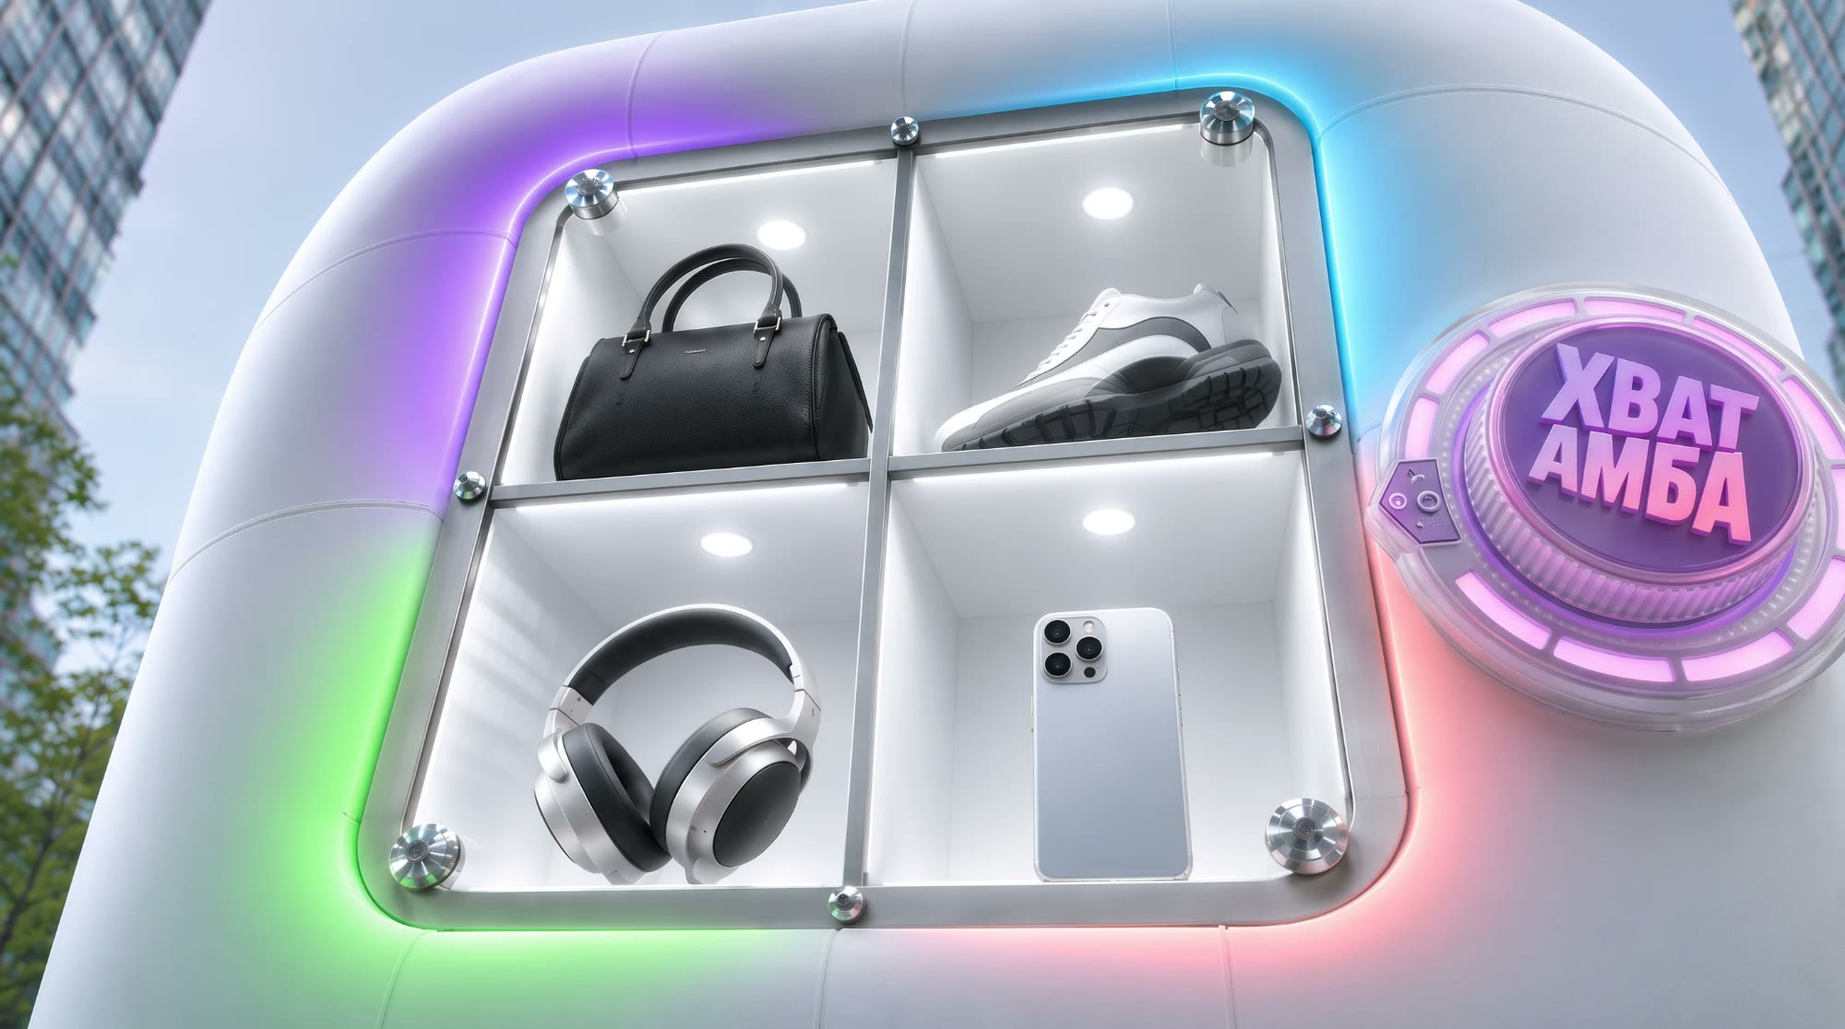
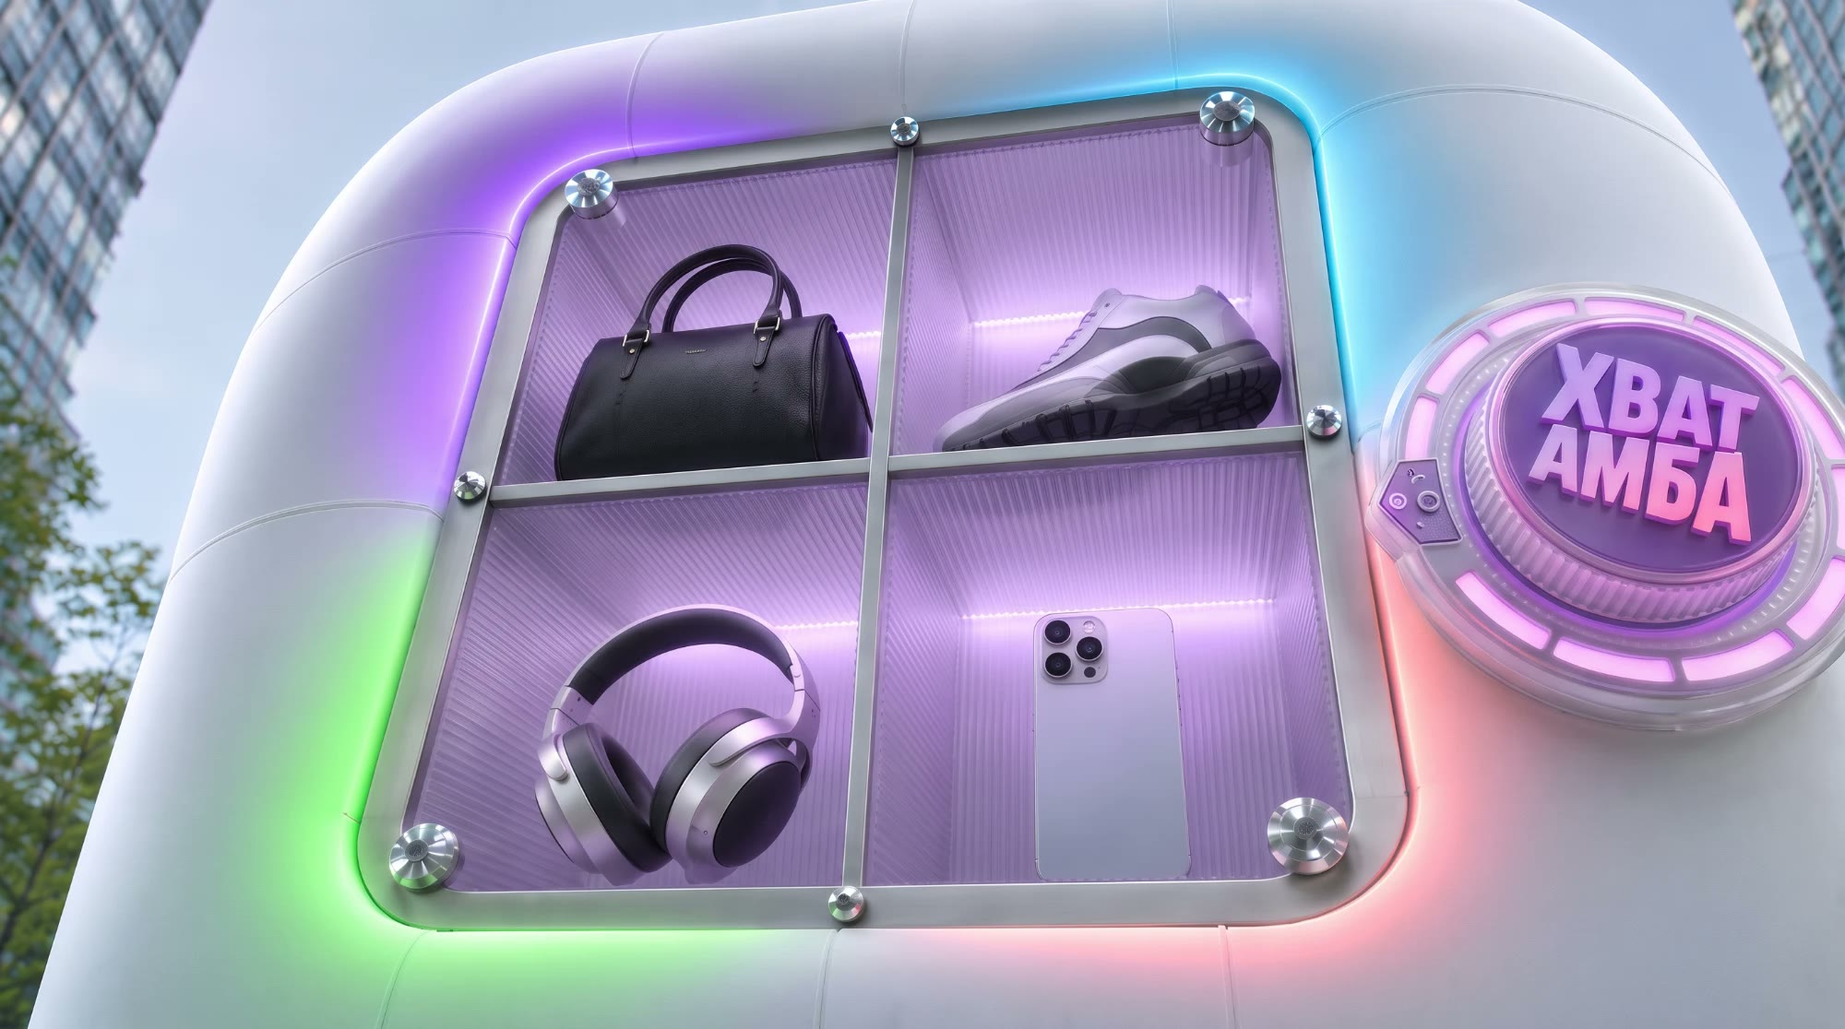
deck/avito: replace ref5

Changed region(s): [[0.217, 0.0914, 0.775, 0.8835]]

diff --git a/deck/avito/index.html b/deck/avito/index.html
@@ -119,9 +119,9 @@ footer{margin-top:auto;border-top:1px solid var(--line);padding-top:18px;display
   </dl>
   <div class="copy"><p>Мысли героя о подарках вылетают из головы настоящими вещами. Поворот диммера Хватамбы открывает двери на улицу, где каждая мысль стоит в авитжете со скидкой.</p></div>
 </section>
-<section class="grid" id="refs"><div class="label">Стиль</div><div class="frames free"><figure><a href="./media/ref1.jpg?v=7" target="_blank" rel="noopener"><img src="./media/ref1.jpg?v=7" alt="Голова открывается крышкой, подарки вылетают с паром" loading="lazy"></a><figcaption><b></b><span>Голова открывается крышкой, подарки вылетают с паром</span></figcaption></figure><figure><a href="./media/ref2.jpg?v=7" target="_blank" rel="noopener"><img src="./media/ref2.jpg?v=7" alt="Девушка прижата желаниями к стеклу" loading="lazy"></a><figcaption><b></b><span>Девушка прижата желаниями к стеклу</span></figcaption></figure><figure><a href="./media/ref3.jpg?v=7" target="_blank" rel="noopener"><img src="./media/ref3.jpg?v=7" alt="Макро глаза с диммером" loading="lazy"></a><figcaption><b></b><span>Макро глаза с диммером</span></figcaption></figure><figure><a href="./media/ref4.jpg?v=7" target="_blank" rel="noopener"><img src="./media/ref4.jpg?v=7" alt="POV: диммер над площадью" loading="lazy"></a><figcaption><b></b><span>POV: диммер над площадью</span></figcaption></figure><figure><a href="./media/ref5.jpg?v=7" target="_blank" rel="noopener"><img src="./media/ref5.jpg?v=7" alt="Авитжет с диммером Хватамбы" loading="lazy"></a><figcaption><b></b><span>Авитжет с диммером Хватамбы</span></figcaption></figure><figure><a href="./media/ref6.jpg?v=7" target="_blank" rel="noopener"><img src="./media/ref6.jpg?v=7" alt="Герой забирает кофемашину из авитжета" loading="lazy"></a><figcaption><b></b><span>Герой забирает кофемашину из авитжета</span></figcaption></figure></div></section>
-<section class="grid" id="sb"><div class="label">Раскадровка</div><div class="frames"><figure><a href="./media/sb01.jpg?v=7" target="_blank" rel="noopener"><img src="./media/sb01.jpg?v=7" alt="Герой в автобусе мечтательно смотрит вверх. Голова открывается крышкой, с паром вылетают подарки." loading="lazy"></a><figcaption><b>01</b><span>Герой в автобусе мечтательно смотрит вверх. Голова открывается крышкой, с паром вылетают подарки.</span></figcaption></figure><figure><a href="./media/sb02.jpg?v=7" target="_blank" rel="noopener"><img src="./media/sb02.jpg?v=7" alt="Девушка прижалась к запотевшему стеклу. Её желания над открытой головой тоже упираются в стекло." loading="lazy"></a><figcaption><b>02</b><span>Девушка прижалась к запотевшему стеклу. Её желания над открытой головой тоже упираются в стекло.</span></figcaption></figure><figure><a href="./media/sb03.jpg?v=7" target="_blank" rel="noopener"><img src="./media/sb03.jpg?v=7" alt="Салон в зеркале заднего вида: у всех пассажиров открыты головы, над каждым куча своих товаров." loading="lazy"></a><figcaption><b>03</b><span>Салон в зеркале заднего вида: у всех пассажиров открыты головы, над каждым куча своих товаров.</span></figcaption></figure><figure><a href="./media/sb04.jpg?v=7" target="_blank" rel="noopener"><img src="./media/sb04.jpg?v=7" alt="Макро глаза героя: в зрачке диммер Хватамбы на двери." loading="lazy"></a><figcaption><b>04</b><span>Макро глаза героя: в зрачке диммер Хватамбы на двери.</span></figcaption></figure><figure><a href="./media/sb05.jpg?v=7" target="_blank" rel="noopener"><img src="./media/sb05.jpg?v=7" alt="Рука героя крутит диммер, товары со всего автобуса летят по проходу в диммер. Автобус тормозит." loading="lazy"></a><figcaption><b>05</b><span>Рука героя крутит диммер, товары со всего автобуса летят по проходу в диммер. Автобус тормозит.</span></figcaption></figure><figure><a href="./media/sb06.jpg?v=7" target="_blank" rel="noopener"><img src="./media/sb06.jpg?v=7" alt="Двери открываются: солнечная улица с авитжетами и селлерами, вдали авитжеты размером с дома." loading="lazy"></a><figcaption><b>06</b><span>Двери открываются: солнечная улица с авитжетами и селлерами, вдали авитжеты размером с дома.</span></figcaption></figure><figure><a href="./media/sb07.jpg?v=7" target="_blank" rel="noopener"><img src="./media/sb07.jpg?v=7" alt="Авитжет крупно: в ячейках товары из желаний героя, сбоку диммер." loading="lazy"></a><figcaption><b>07</b><span>Авитжет крупно: в ячейках товары из желаний героя, сбоку диммер.</span></figcaption></figure><figure><a href="./media/sb08.jpg?v=7" target="_blank" rel="noopener"><img src="./media/sb08.jpg?v=7" alt="Селлер начинает крутить диммер, улица закручивается, вылетают значки скидок." loading="lazy"></a><figcaption><b>08</b><span>Селлер начинает крутить диммер, улица закручивается, вылетают значки скидок.</span></figcaption></figure><figure><a href="./media/sb09.jpg?v=7" target="_blank" rel="noopener"><img src="./media/sb09.jpg?v=7" alt="Сверху: селлер проворачивает диммер дальше, и весь город вращается." loading="lazy"></a><figcaption><b>09</b><span>Сверху: селлер проворачивает диммер дальше, и весь город вращается.</span></figcaption></figure><figure><a href="./media/sb10.jpg?v=7" target="_blank" rel="noopener"><img src="./media/sb10.jpg?v=7" alt="Изнутри авитжета: герой забирает ту самую кофемашину. Над головой больше ничего не висит." loading="lazy"></a><figcaption><b>10</b><span>Изнутри авитжета: герой забирает ту самую кофемашину. Над головой больше ничего не висит.</span></figcaption></figure><figure><a href="./media/sb11.jpg?v=7" target="_blank" rel="noopener"><img src="./media/sb11.jpg?v=7" alt="Пэкшот: авитжет с кофемашиной и диммером Хватамбы, плашка Авито." loading="lazy"></a><figcaption><b>11</b><span>Пэкшот: авитжет с кофемашиной и диммером Хватамбы, плашка Авито.</span></figcaption></figure><figure class="vid"><video src="./media/boardomatic.mp4?v=7" poster="./media/sb01.jpg?v=7" controls playsinline preload="metadata"></video><figcaption><b>▶</b><span>Бордоматик, 20 секунд.</span></figcaption></figure></div></section>
-<section class="grid" id="alts"><div class="label">Альтернативы по стилю</div><div class="frames"><figure><a href="./media/alt1.jpg?v=7" target="_blank" rel="noopener"><img src="./media/alt1.jpg?v=7" alt="Предметы облепили голову" loading="lazy"></a><figcaption><b></b><span>Предметы облепили голову</span></figcaption></figure><figure><a href="./media/alt2.jpg?v=7" target="_blank" rel="noopener"><img src="./media/alt2.jpg?v=7" alt="Тот же приём, движение камеры" loading="lazy"></a><figcaption><b></b><span>Тот же приём, движение камеры</span></figcaption></figure></div></section>
+<section class="grid" id="refs"><div class="label">Стиль</div><div class="frames free"><figure><a href="./media/ref1.jpg?v=8" target="_blank" rel="noopener"><img src="./media/ref1.jpg?v=8" alt="Голова открывается крышкой, подарки вылетают с паром" loading="lazy"></a><figcaption><b></b><span>Голова открывается крышкой, подарки вылетают с паром</span></figcaption></figure><figure><a href="./media/ref2.jpg?v=8" target="_blank" rel="noopener"><img src="./media/ref2.jpg?v=8" alt="Девушка прижата желаниями к стеклу" loading="lazy"></a><figcaption><b></b><span>Девушка прижата желаниями к стеклу</span></figcaption></figure><figure><a href="./media/ref3.jpg?v=8" target="_blank" rel="noopener"><img src="./media/ref3.jpg?v=8" alt="Макро глаза с диммером" loading="lazy"></a><figcaption><b></b><span>Макро глаза с диммером</span></figcaption></figure><figure><a href="./media/ref4.jpg?v=8" target="_blank" rel="noopener"><img src="./media/ref4.jpg?v=8" alt="POV: диммер над площадью" loading="lazy"></a><figcaption><b></b><span>POV: диммер над площадью</span></figcaption></figure><figure><a href="./media/ref5.jpg?v=8" target="_blank" rel="noopener"><img src="./media/ref5.jpg?v=8" alt="Авитжет с диммером Хватамбы" loading="lazy"></a><figcaption><b></b><span>Авитжет с диммером Хватамбы</span></figcaption></figure><figure><a href="./media/ref6.jpg?v=8" target="_blank" rel="noopener"><img src="./media/ref6.jpg?v=8" alt="Герой забирает кофемашину из авитжета" loading="lazy"></a><figcaption><b></b><span>Герой забирает кофемашину из авитжета</span></figcaption></figure></div></section>
+<section class="grid" id="sb"><div class="label">Раскадровка</div><div class="frames"><figure><a href="./media/sb01.jpg?v=8" target="_blank" rel="noopener"><img src="./media/sb01.jpg?v=8" alt="Герой в автобусе мечтательно смотрит вверх. Голова открывается крышкой, с паром вылетают подарки." loading="lazy"></a><figcaption><b>01</b><span>Герой в автобусе мечтательно смотрит вверх. Голова открывается крышкой, с паром вылетают подарки.</span></figcaption></figure><figure><a href="./media/sb02.jpg?v=8" target="_blank" rel="noopener"><img src="./media/sb02.jpg?v=8" alt="Девушка прижалась к запотевшему стеклу. Её желания над открытой головой тоже упираются в стекло." loading="lazy"></a><figcaption><b>02</b><span>Девушка прижалась к запотевшему стеклу. Её желания над открытой головой тоже упираются в стекло.</span></figcaption></figure><figure><a href="./media/sb03.jpg?v=8" target="_blank" rel="noopener"><img src="./media/sb03.jpg?v=8" alt="Салон в зеркале заднего вида: у всех пассажиров открыты головы, над каждым куча своих товаров." loading="lazy"></a><figcaption><b>03</b><span>Салон в зеркале заднего вида: у всех пассажиров открыты головы, над каждым куча своих товаров.</span></figcaption></figure><figure><a href="./media/sb04.jpg?v=8" target="_blank" rel="noopener"><img src="./media/sb04.jpg?v=8" alt="Макро глаза героя: в зрачке диммер Хватамбы на двери." loading="lazy"></a><figcaption><b>04</b><span>Макро глаза героя: в зрачке диммер Хватамбы на двери.</span></figcaption></figure><figure><a href="./media/sb05.jpg?v=8" target="_blank" rel="noopener"><img src="./media/sb05.jpg?v=8" alt="Рука героя крутит диммер, товары со всего автобуса летят по проходу в диммер. Автобус тормозит." loading="lazy"></a><figcaption><b>05</b><span>Рука героя крутит диммер, товары со всего автобуса летят по проходу в диммер. Автобус тормозит.</span></figcaption></figure><figure><a href="./media/sb06.jpg?v=8" target="_blank" rel="noopener"><img src="./media/sb06.jpg?v=8" alt="Двери открываются: солнечная улица с авитжетами и селлерами, вдали авитжеты размером с дома." loading="lazy"></a><figcaption><b>06</b><span>Двери открываются: солнечная улица с авитжетами и селлерами, вдали авитжеты размером с дома.</span></figcaption></figure><figure><a href="./media/sb07.jpg?v=8" target="_blank" rel="noopener"><img src="./media/sb07.jpg?v=8" alt="Авитжет крупно: в ячейках товары из желаний героя, сбоку диммер." loading="lazy"></a><figcaption><b>07</b><span>Авитжет крупно: в ячейках товары из желаний героя, сбоку диммер.</span></figcaption></figure><figure><a href="./media/sb08.jpg?v=8" target="_blank" rel="noopener"><img src="./media/sb08.jpg?v=8" alt="Селлер начинает крутить диммер, улица закручивается, вылетают значки скидок." loading="lazy"></a><figcaption><b>08</b><span>Селлер начинает крутить диммер, улица закручивается, вылетают значки скидок.</span></figcaption></figure><figure><a href="./media/sb09.jpg?v=8" target="_blank" rel="noopener"><img src="./media/sb09.jpg?v=8" alt="Сверху: селлер проворачивает диммер дальше, и весь город вращается." loading="lazy"></a><figcaption><b>09</b><span>Сверху: селлер проворачивает диммер дальше, и весь город вращается.</span></figcaption></figure><figure><a href="./media/sb10.jpg?v=8" target="_blank" rel="noopener"><img src="./media/sb10.jpg?v=8" alt="Изнутри авитжета: герой забирает ту самую кофемашину. Над головой больше ничего не висит." loading="lazy"></a><figcaption><b>10</b><span>Изнутри авитжета: герой забирает ту самую кофемашину. Над головой больше ничего не висит.</span></figcaption></figure><figure><a href="./media/sb11.jpg?v=8" target="_blank" rel="noopener"><img src="./media/sb11.jpg?v=8" alt="Пэкшот: авитжет с кофемашиной и диммером Хватамбы, плашка Авито." loading="lazy"></a><figcaption><b>11</b><span>Пэкшот: авитжет с кофемашиной и диммером Хватамбы, плашка Авито.</span></figcaption></figure><figure class="vid"><video src="./media/boardomatic.mp4?v=8" poster="./media/sb01.jpg?v=8" controls playsinline preload="metadata"></video><figcaption><b>▶</b><span>Бордоматик, 20 секунд.</span></figcaption></figure></div></section>
+<section class="grid" id="alts"><div class="label">Альтернативы по стилю</div><div class="frames"><figure><a href="./media/alt1.jpg?v=8" target="_blank" rel="noopener"><img src="./media/alt1.jpg?v=8" alt="Предметы облепили голову" loading="lazy"></a><figcaption><b></b><span>Предметы облепили голову</span></figcaption></figure><figure><a href="./media/alt2.jpg?v=8" target="_blank" rel="noopener"><img src="./media/alt2.jpg?v=8" alt="Тот же приём, движение камеры" loading="lazy"></a><figcaption><b></b><span>Тот же приём, движение камеры</span></figcaption></figure></div></section>
 <footer><span>Катя Кошкина · Director's notes</span><span>Авито · 2026</span></footer>
 </main>
 <div id="lb"><span class="nav prev">‹</span><img alt=""><span class="nav next">›</span><span class="x">×</span></div>
